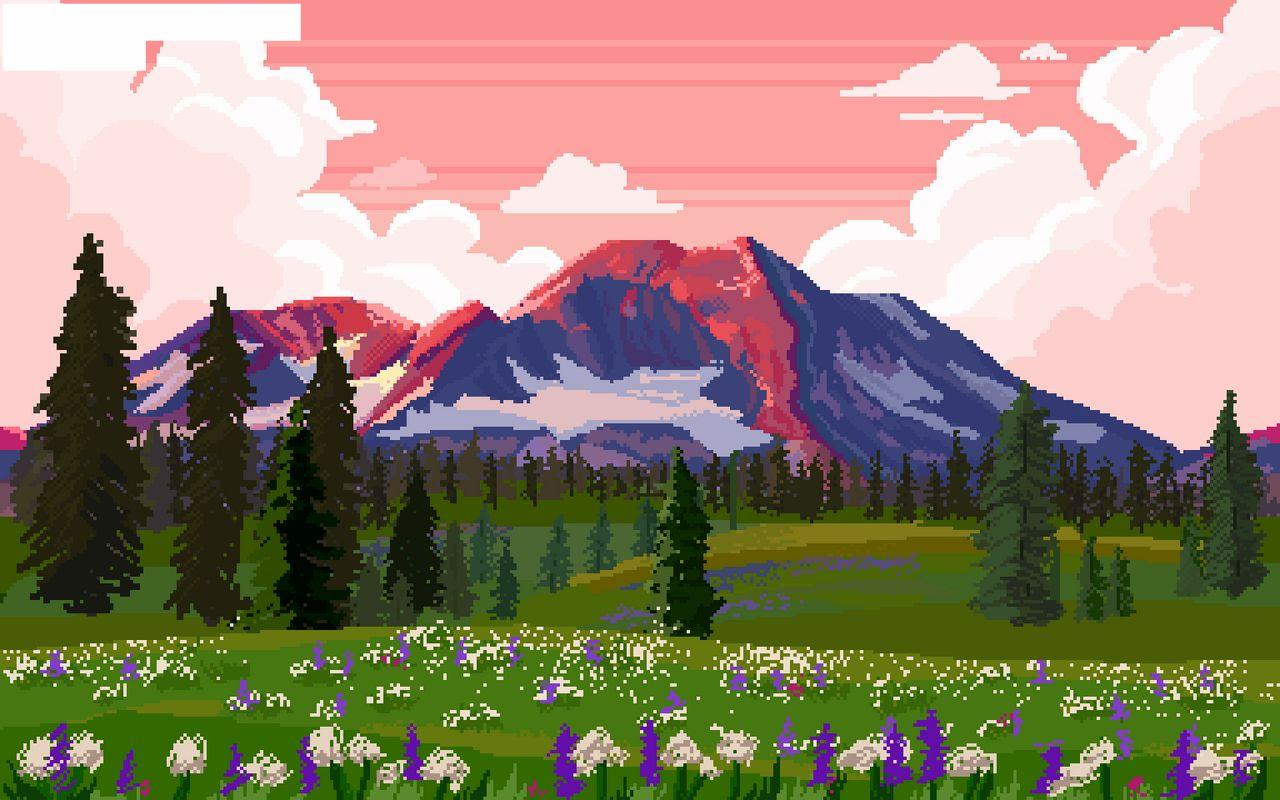
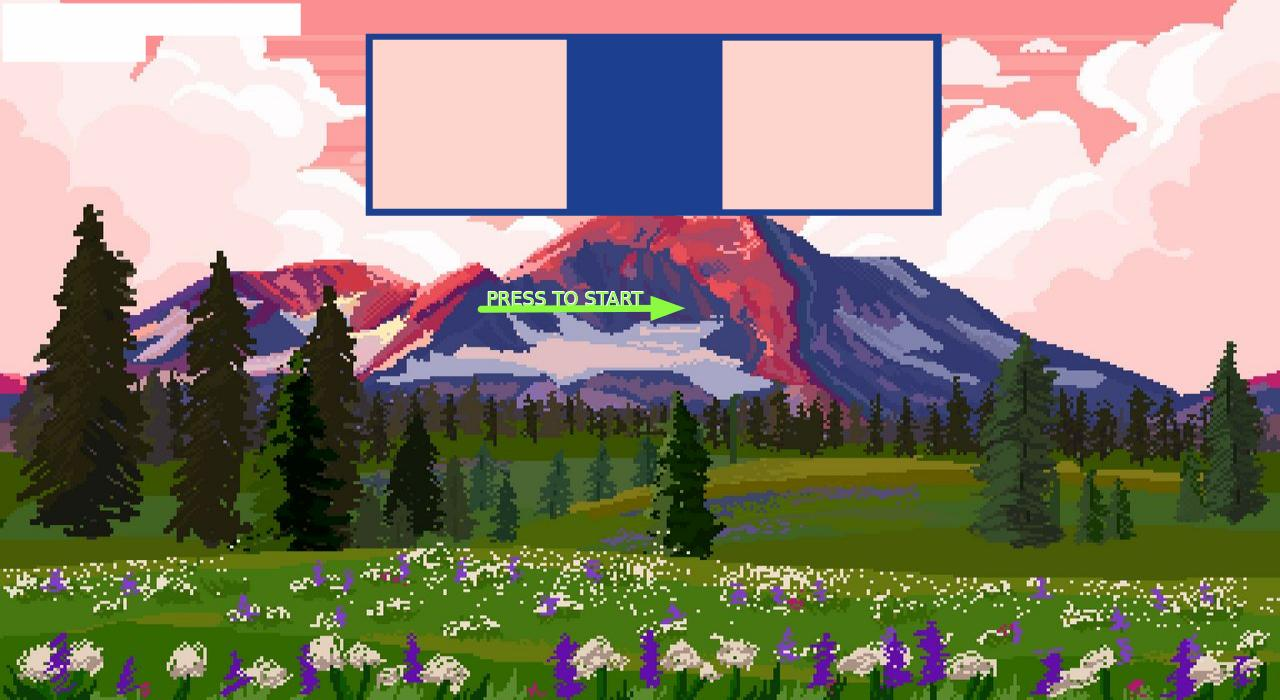
second scene and fixes

diff --git a/src/main/java/com/github/cc3002/finalreality/gui/FinalReality.java b/src/main/java/com/github/cc3002/finalreality/gui/FinalReality.java
@@ -36,6 +36,7 @@ public class FinalReality extends Application {
   private Label weapon3 = new Label();
   private Label weapon4 = new Label();
   private Label weapon5 = new Label();
+  private int  cont1 =0, cont2 =0, cont3 =0, cont4 =0, cont5 =0;
 
   public static void main(String[] args) {
     launch(args);
@@ -61,6 +62,22 @@ public class FinalReality extends Application {
     Label labelnew = new Label("new group");
     labelnew.setLayoutX(900);
     labelnew.setLayoutY(20);
+    Button  buttonNew = new Button("Start");
+    buttonNew.setLayoutX(710);
+    buttonNew.setLayoutY(295);
+    newGroup.getChildren().add(labelnew);
+    newGroup.getChildren().add(backgroundSec);
+    buttonNew.setOnAction(new EventHandler<ActionEvent>() {
+      @Override
+      public void handle(ActionEvent event) {
+        newGroup.getChildren().add(label);
+        newGroup.getChildren().add(labelEn);
+        controller.startGame();
+        Scene sceneNew = new Scene(newGroup,1200,600);
+        primaryStage.setScene(sceneNew);
+
+      }
+    });
     //
     Group EquipGroup = new Group();
     Button  buttonEquip = new Button("Continue");
@@ -75,28 +92,14 @@ public class FinalReality extends Application {
         EquipGroup.getChildren().add(labelinv);
         Group players = equipping();
         EquipGroup.getChildren().add(players);
+        EquipGroup.getChildren().add(buttonNew);
         Scene sceneNew = new Scene(EquipGroup,1200,600);
         primaryStage.setScene(sceneNew);
 
       }
     });
     //
-    Button  buttonNew = new Button("Start");
-    buttonNew.setLayoutX(330);
-    buttonNew.setLayoutY(150);
-    newGroup.getChildren().add(labelnew);
-    newGroup.getChildren().add(backgroundSec);
-    buttonNew.setOnAction(new EventHandler<ActionEvent>() {
-      @Override
-      public void handle(ActionEvent event) {
-        newGroup.getChildren().add(label);
-        newGroup.getChildren().add(labelEn);
-        controller.startGame();
-        Scene sceneNew = new Scene(newGroup,1200,600);
-        primaryStage.setScene(sceneNew);
 
-      }
-    });
     root.getChildren().add(backgroundIn);
     root.getChildren().add(label);
     root.getChildren().add(labelinv);
@@ -249,9 +252,10 @@ public class FinalReality extends Application {
   }
   public Group equipping(){
     Group group = new Group();
-    int xPos = 500, xPos2 = xPos +150;
+    int xPos = 400, xPos2 = xPos +190;
     int yPos = 50;
-    int  cont1 =0, cont2 =0, cont3 =0, cont4 =0, cont5 =0;
+    int tope = controller.getInventory().size()-1;
+    setUpTimer2();
     String name1 = controller.getCharacterName(controller.getPlayer(0));
     Label player1 = new Label("Player 1 : "+ name1);
     player1.setLayoutX(xPos);
@@ -259,37 +263,128 @@ public class FinalReality extends Application {
     Button button1 = new Button("Equip Weapon: ");
     button1.setLayoutX(xPos2);
     button1.setLayoutY(yPos);
+    button1.setOnAction(new EventHandler<ActionEvent>() {
+      @Override
+      public void handle(ActionEvent event) {
+        controller.equip(controller.getPlayer(0),cont1);
+        if (cont1<tope){
+          cont1++;
+        }
+        else {
+          cont1=0;
+        }
+      }
+    });
     String name2 = controller.getCharacterName(controller.getPlayer(1));
     Label player2 = new Label("Player 2 : "+ name2);
     player2.setLayoutX(xPos);
     player2.setLayoutY(yPos+30);
+    Button button2 = new Button("Equip Weapon: ");
+    button2.setLayoutX(xPos2);
+    button2.setLayoutY(yPos+30);
+    button2.setOnAction(new EventHandler<ActionEvent>() {
+      @Override
+      public void handle(ActionEvent event) {
+        controller.equip(controller.getPlayer(1),cont2);
+        if (cont2<tope){
+          cont2++;
+        }
+        else {
+          cont2=0;
+        }
+      }
+    });
     String name3 = controller.getCharacterName(controller.getPlayer(2));
     Label player3 = new Label("Player 3 : "+ name3);
     player3.setLayoutX(xPos);
     player3.setLayoutY(yPos+60);
+    Button button3 = new Button("Equip Weapon: ");
+    button3.setLayoutX(xPos2);
+    button3.setLayoutY(yPos+60);
+    button3.setOnAction(new EventHandler<ActionEvent>() {
+      @Override
+      public void handle(ActionEvent event) {
+        controller.equip(controller.getPlayer(2), cont3);
+        if (cont3 < tope) {
+          cont3++;
+        } else {
+          cont3 = 0;
+        }
+      }
+    });
     String name4 = controller.getCharacterName(controller.getPlayer(3));
     Label player4 = new Label("Player 4 : "+ name4);
     player4.setLayoutX(xPos);
     player4.setLayoutY(yPos+90);
+    Button button4 = new Button("Equip Weapon: ");
+    button4.setLayoutX(xPos2);
+    button4.setLayoutY(yPos+90);
+    button4.setOnAction(new EventHandler<ActionEvent>() {
+      @Override
+      public void handle(ActionEvent event) {
+        controller.equip(controller.getPlayer(3), cont4);
+        if (cont4 < tope) {
+          cont4++;
+        } else {
+          cont4 = 0;
+        }
+      }
+    });
     String name5 = controller.getCharacterName(controller.getPlayer(4));
     Label player5 = new Label("Player 5 : "+ name5);
     player5.setLayoutX(xPos);
     player5.setLayoutY(yPos+120);
-
+    Button button5 = new Button("Equip Weapon: ");
+    button5.setLayoutX(xPos2);
+    button5.setLayoutY(yPos+120);
+    button5.setOnAction(new EventHandler<ActionEvent>() {
+      @Override
+      public void handle(ActionEvent event) {
+        controller.equip(controller.getPlayer(4), cont5);
+        if (cont5 < tope) {
+          cont5++;
+        } else {
+          cont5 = 0;
+        }
+      }
+    });
+    weapon1.setLayoutX(xPos2+180);
+    weapon1.setLayoutY(yPos);
+    weapon2.setLayoutX(xPos2+180);
+    weapon2.setLayoutY(yPos+30);
+    weapon3.setLayoutX(xPos2+180);
+    weapon3.setLayoutY(yPos+60);
+    weapon4.setLayoutX(xPos2+180);
+    weapon4.setLayoutY(yPos+90);
+    weapon5.setLayoutX(xPos2+180);
+    weapon5.setLayoutY(yPos+120);
     group.getChildren().add(player1);
     group.getChildren().add(player2);
     group.getChildren().add(player3);
     group.getChildren().add(player4);
     group.getChildren().add(player5);
+    group.getChildren().add(button1);
+    group.getChildren().add(button2);
+    group.getChildren().add(button3);
+    group.getChildren().add(button4);
+    group.getChildren().add(button5);
+    group.getChildren().add(weapon1);
+    group.getChildren().add(weapon2);
+    group.getChildren().add(weapon3);
+    group.getChildren().add(weapon4);
+    group.getChildren().add(weapon5);
+
     return group;
   }
   public void setUpTimer2(){
     AnimationTimer timer = new AnimationTimer() {
       @Override
       public void handle(long now) {
-        weapon1.setText("Character Alive : " + controller.getAlivePlayers());
-        weapon2.setText("Enemies Alive : " + controller.getAliveEnemies());
-        weapon3.setText("Inventory Size : " + controller.getInventory().size());
+        weapon1.setText( controller.getWeaponName(cont1));
+        weapon2.setText(controller.getWeaponName(cont2));
+        weapon3.setText(controller.getWeaponName(cont3));
+        weapon4.setText(controller.getWeaponName(cont4));
+        weapon5.setText(controller.getWeaponName(cont5));
       }
     };
     timer.start();

diff --git a/src/main/java/com/github/cc3002/finalreality/controller/GameController.java b/src/main/java/com/github/cc3002/finalreality/controller/GameController.java
@@ -11,16 +11,17 @@ import org.jetbrains.annotations.NotNull;
 import java.util.ArrayList;
 import java.util.List;
 import java.util.concurrent.BlockingQueue;
+import java.util.concurrent.LinkedBlockingQueue;
 
 public class GameController {
     private List<IPlayer> party = new ArrayList<>();
     private List<Enemy> enemies = new ArrayList<>();
-    public List<IWeapon> inventory = new ArrayList<>();
+    private List<IWeapon> inventory = new ArrayList<>();
     private int numPlayers = 0;
     private int numenemies = 0;
     private int maxPlayers = 5;
     private int alivePlayers = 0;
-    private int maxenemies = 10;
+    private int maxenemies = 8;
     private int aliveenemies =0;
     private final BlockingQueue<ICharacter> turns;
     private boolean result;
@@ -30,11 +31,9 @@ public class GameController {
 
     /**
      * create a new controller.
-     * @param turnsQueue
-     *      the queue with the characters waiting for their turn
      */
-    public GameController(@NotNull BlockingQueue<ICharacter> turnsQueue) {
-        this.turns = turnsQueue;
+    public GameController() {
+        this.turns = new LinkedBlockingQueue<>();
     }
     /**
      * get the game's result.
@@ -202,11 +201,29 @@ public class GameController {
     }
 
     /**
+     * returns i-weapon's name
+     * @param i
+     *      weapon's number
+     * @return
+     *      i-weapon's name
+     */
+    public String getWeaponName(int i){
+        return inventory.get(i).getName();
+    }
+
+    /**
      * returns the number of players
      * @return
      *      number of player
      */
     public int getNumPlayers(){return numPlayers;}
+
+    /**
+     * returns the number of alive players
+     * @return
+     *      number of player that are not dead
+     */
+    public int getAlivePlayers(){return alivePlayers;}
 
     /**
      * returns the number of enemies
@@ -216,12 +233,21 @@ public class GameController {
     public int getNumenemies(){return numenemies;}
 
     /**
+     * returns the number of alive enemies
+     * @return
+     *      number of enemies that are not dead
+     */
+    public int getAliveEnemies() {
+        return aliveenemies;
+    }
+
+    /**
      * returns the user's party 
      * @return
      *      list of players
      */
     public List<IPlayer> getParty(){
-        return this.party;
+        return List.copyOf(this.party);
     }
 
     /**
@@ -306,6 +332,10 @@ public class GameController {
         return inventory.get(i);
     }
 
+    public List<IWeapon> getInventory() {
+        return List.copyOf(inventory);
+    }
+
     /**
      * equips the i-th weapon to the player
      * @param player
@@ -352,7 +382,10 @@ public class GameController {
      * starts the game making all the character wait for their turn
      */
     public void startGame(){
-        for (int i=0; i<party.size();i++){
+        for (int i=0; i<5; i++){
+            createEnemy("Enemy"+i, 2*(i+1)+5);
+        }
+        for (int i=0; i<party.size();i++) {
             getPlayer(i).waitTurn();
         }
         for(int i = 0; i<enemies.size();i++){
